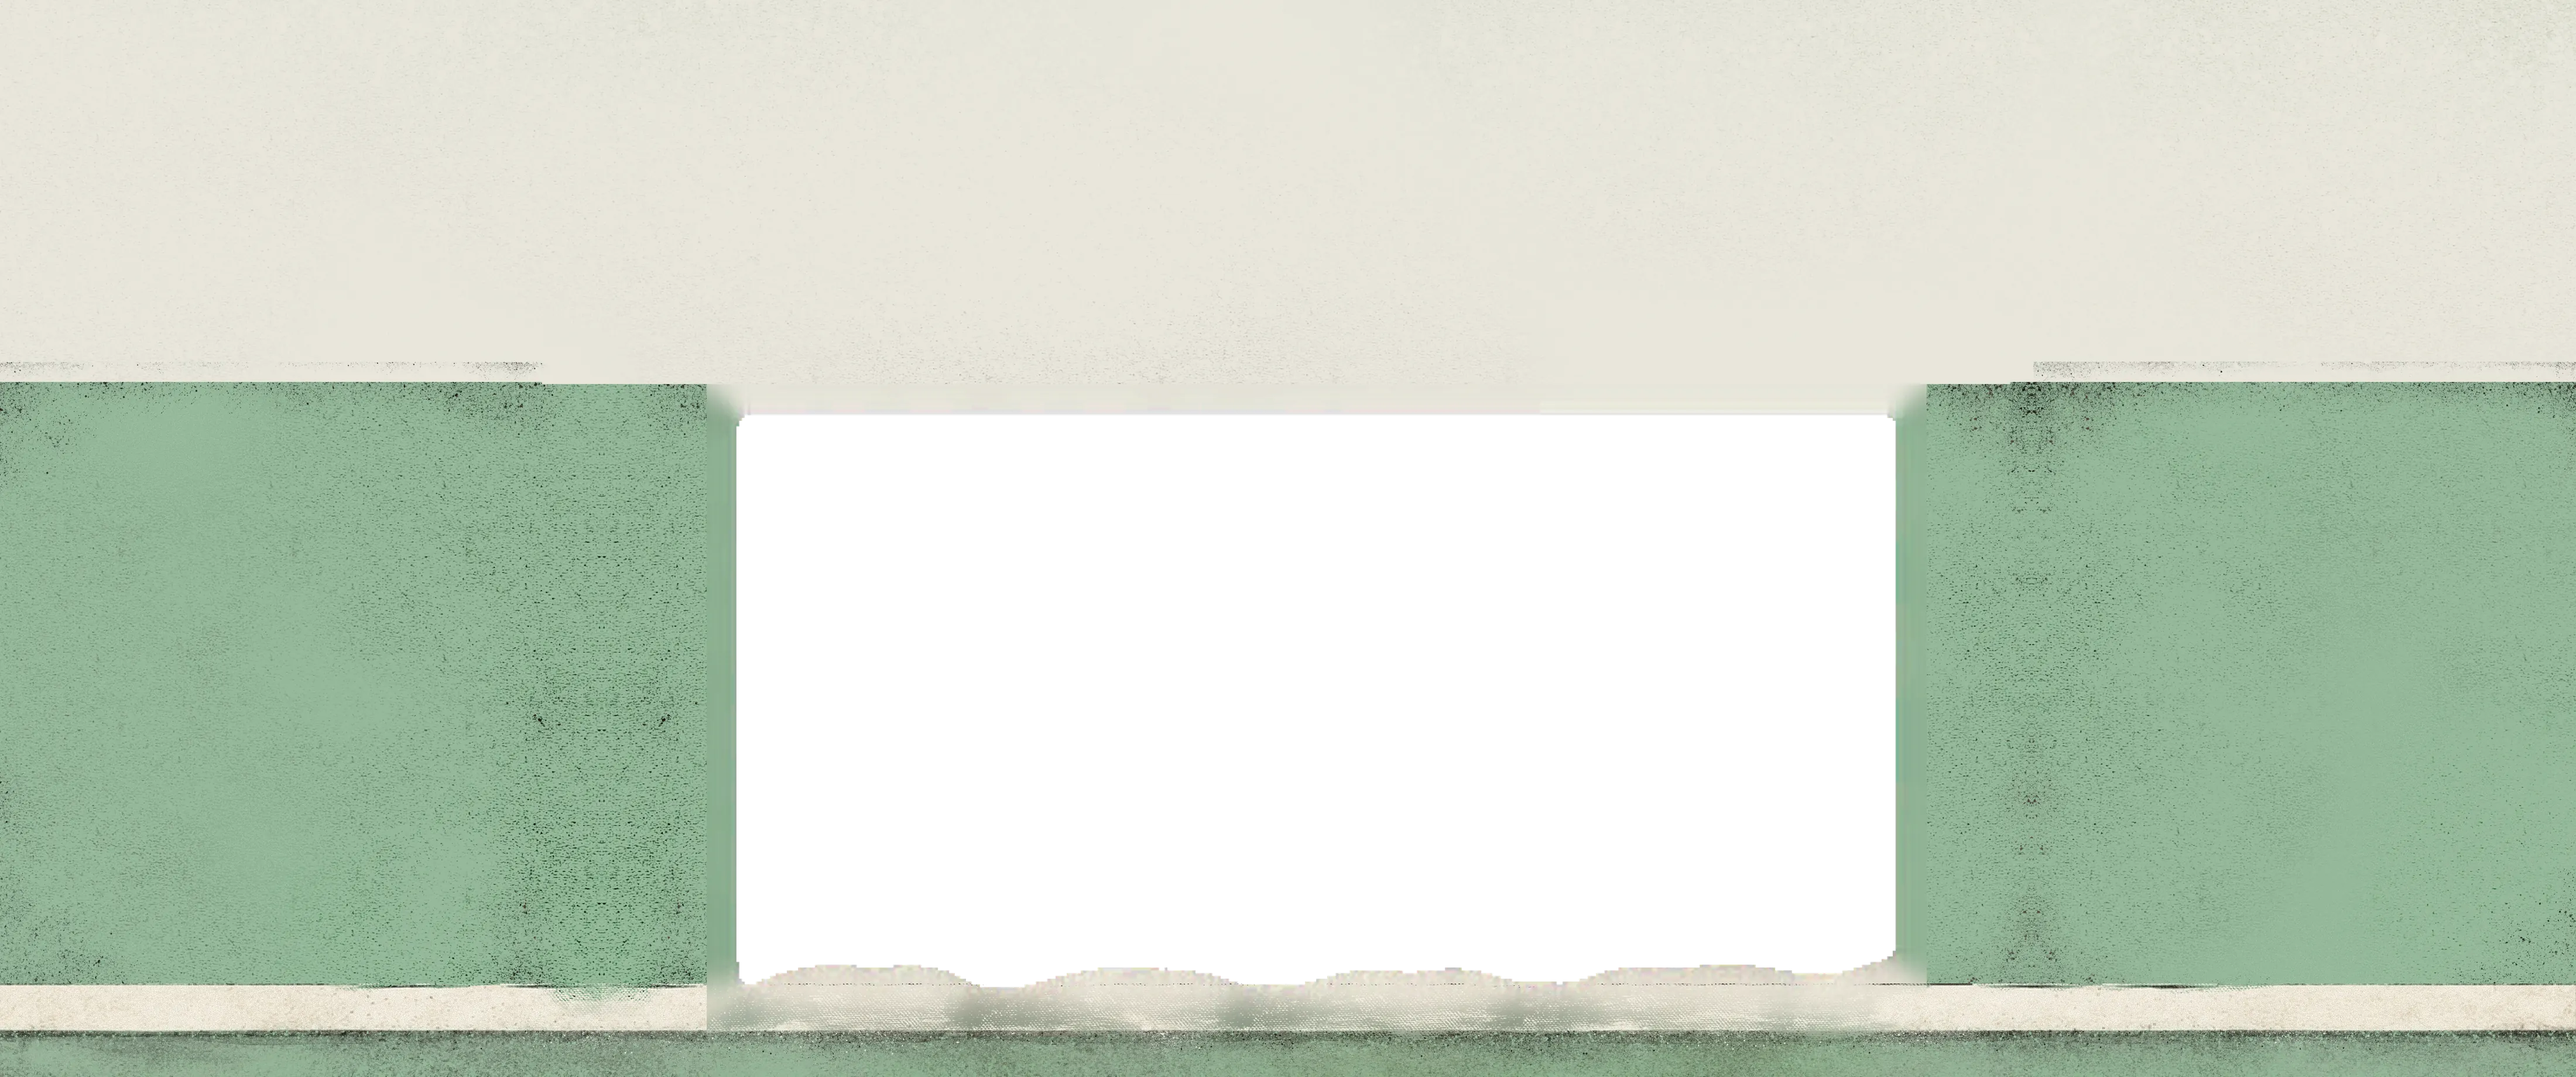
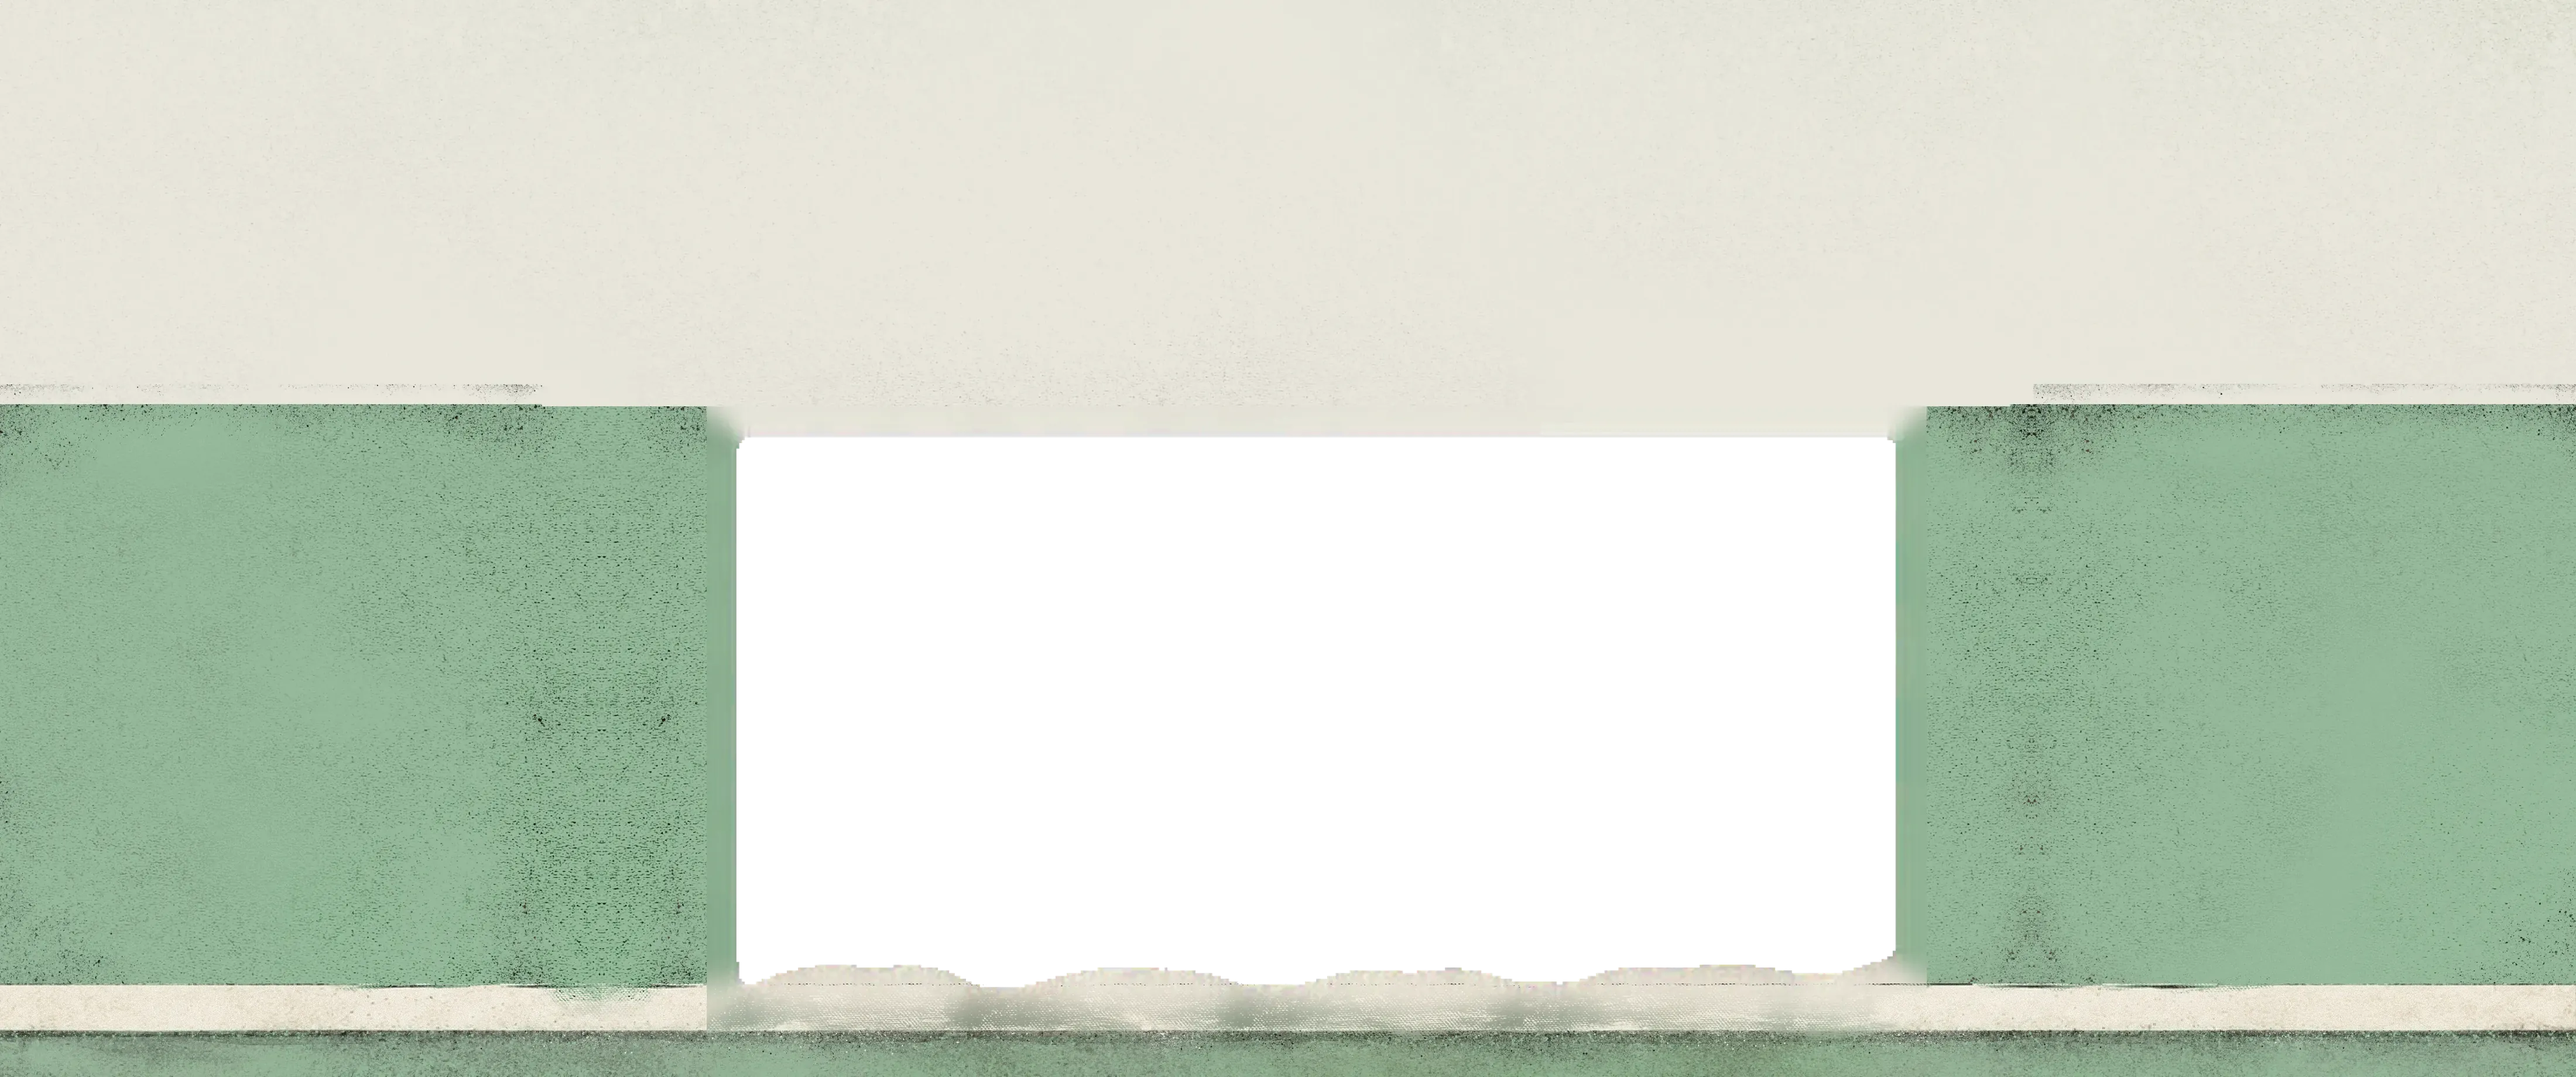
3

Changed region(s): [[0.0, 0.3408, 1.0, 0.4337]]

diff --git a/style.css b/style.css
@@ -25,7 +25,7 @@ img { display: block; }
    --sw is the width of the bar scene. The whole facade is scaled so it fits the first screen. */
 :root { --sw: min(1440px, 100vw, calc(100vh * 4087 / 3079)); }
 .stage-wrap { position: relative; overflow: hidden; background: #E8E6DB; height: calc(var(--sw) * 3079 / 4087); }
-.stage { position: absolute; top: 0; left: 50%; width: calc(var(--sw) * 7363 / 4087); height: 100%; transform: translateX(-50%); background: url(assets/stage_bg.webp) center top / 100% 100% no-repeat; }
+.stage { position: absolute; top: 0; left: 50%; width: calc(var(--sw) * 7363 / 4087); height: 100%; transform: translateX(-50%); background: url(assets/stage_bg.webp?v=4) center top / 100% 100% no-repeat; }
 .scene { position: absolute; left: 50%; top: calc(var(--sw) * 1097 / 4087); width: var(--sw); aspect-ratio: 4320 / 2040; transform: translateX(-50%); 
   /* soften the scene's outer edges into your drawn wall and floor */
   -webkit-mask-image: linear-gradient(to right, transparent 0, #000 1.4%, #000 98.6%, transparent 100%), linear-gradient(to bottom, #000 95.5%, transparent 100%);

diff --git a/index.html b/index.html
@@ -8,7 +8,7 @@
 <link rel="preconnect" href="https://fonts.googleapis.com">
 <link rel="preconnect" href="https://fonts.gstatic.com" crossorigin>
 <link rel="stylesheet" href="https://fonts.googleapis.com/css2?family=Archivo:ital,wght@1,800;1,900&amp;family=Barlow+Condensed:ital,wght@0,500;0,600;0,700;1,500;1,600&amp;family=Noto+Sans+SC:wght@400;500&amp;display=swap">
-<link rel="stylesheet" href="style.css?v=3">
+<link rel="stylesheet" href="style.css?v=4">
 </head>
 <body>
 <div id="root" class="page">
@@ -171,6 +171,6 @@
 </section>
 
 </div>
-<script src="main.js?v=3"></script>
+<script src="main.js?v=4"></script>
 </body>
 </html>
